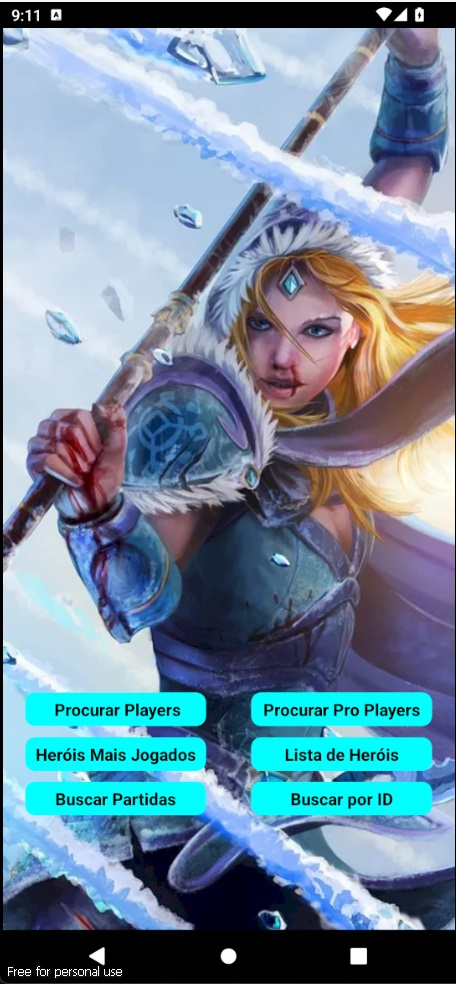
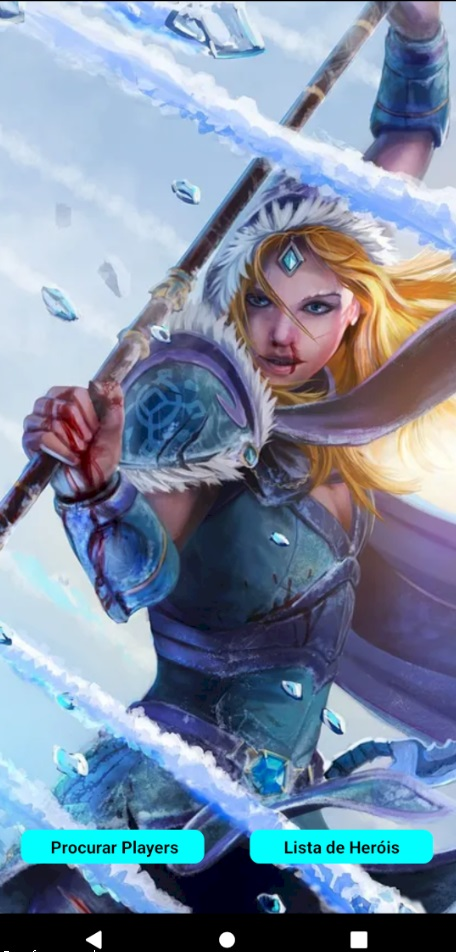
finalizando o app

diff --git a/src/screens/Home/index.tsx b/src/screens/Home/index.tsx
@@ -3,7 +3,6 @@ import { View, Text, Image, TouchableOpacity, } from 'react-native';
 
 import Logo from "../../images/dota2Icon.png"
 import { styles } from './styles';
-import { Border } from '../../components/Border';
 import { Heroes } from '../BuscarPlayers/props';
 import axios from 'axios';
 
@@ -26,8 +25,6 @@ export function Home({ navigation }: any) {
         navigation.navigate("listaDeHerois")
     }
 
-
-
     return (
         <View style={styles.container}>
             <Image
@@ -36,12 +33,6 @@ export function Home({ navigation }: any) {
                     require('../../images/wallpaper.webp')
                 }
             />
-            {/*  <View style={styles.logoContainer}>
-                <Image
-                    style={styles.imageLogo}
-                    source={Logo}
-                />
-            </View> */}
             <View
                 style={styles.buttonContainer}
             >
@@ -51,35 +42,31 @@ export function Home({ navigation }: any) {
                 >
                     <Text style={styles.textButton}> Procurar Players</Text>
                 </TouchableOpacity>
-                <TouchableOpacity
+                {/*  <TouchableOpacity
                     onPress={navToProPlayes}
                     style={styles.button}
                 >
                     <Text style={styles.textButton}>Procurar Pro Players</Text>
-                </TouchableOpacity>
-                <TouchableOpacity
+                </TouchableOpacity> */}
+                {/*  <TouchableOpacity
                     onPress={navToHeroisMaisJogados}
                     style={styles.button}
                 >
                     <Text style={styles.textButton}>Heróis Mais Jogados</Text>
-                </TouchableOpacity>
+                </TouchableOpacity> */}
                 <TouchableOpacity
                     onPress={navToListaDeHerois}
                     style={styles.button}
                 >
                     <Text style={styles.textButton}>Lista de Heróis</Text>
                 </TouchableOpacity>
-                <TouchableOpacity
+                {/*   <TouchableOpacity
                     onPressIn={navToPartidasPorId}
                     style={styles.button}
                 >
                     <Text style={styles.textButton}>Buscar Partidas</Text>
-                </TouchableOpacity>
-                <TouchableOpacity
-                    style={styles.button}
-                >
-                    <Text style={styles.textButton}>Buscar por ID</Text>
-                </TouchableOpacity>
+                </TouchableOpacity> */}
+
 
 
             </View>

diff --git a/src/components/Context/useDatasContex.tsx b/src/components/Context/useDatasContex.tsx
@@ -39,11 +39,9 @@ export const PlayerProvider: React.FC<PlayerProviderProps> = ({ children }) => {
                 if (storedPlayerData) {
                     setPlayerData(JSON.parse(storedPlayerData));
                 }
-
                 if (storedRecentMatches) {
                     setRecentMatches(JSON.parse(storedRecentMatches));
                 }
-
                 if (storedPlayerId) {
                     setPlayerId(storedPlayerId);
                 }
@@ -76,7 +74,7 @@ export const PlayerProvider: React.FC<PlayerProviderProps> = ({ children }) => {
         };
 
         saveData();
-    }, [playerData, recentMatches, playerId]);
+    }, [playerData, recentMatches, playerId, winrate]);
 
     const contextValue: PlayerContextData = {
         playerData,

diff --git a/src/screens/BuscarPlayers/index.tsx b/src/screens/BuscarPlayers/index.tsx
@@ -56,19 +56,15 @@ export function BuscarPlayers({ navigation }: any) {
             const playerDataResponse = await fetchGetPlayerData(idAtual);
             const playerData = playerDataResponse ?? null;
             setPlayerData(playerData);
-
             const recentMatchesDataResponse = await fetchGetRecentMatchesData(idAtual);
             const recentMatchesData = recentMatchesDataResponse ?? [];
             setRecentMatches(recentMatchesData);
             setWinrate(data)
 
-
         } catch (error) {
             console.error(`Erro ao buscar dados: `, error);
         }
     };
-    console.log(JSON.stringify(winrate, null, 2))
-
 
     const renderItem = ({ item, index }: { item: RecentMatches, index: number }) => {
 

diff --git a/src/screens/Home/styles.tsx b/src/screens/Home/styles.tsx
@@ -16,7 +16,7 @@ export const styles = StyleSheet.create({
         resizeMode: "contain"
     },
     buttonContainer: {
-        top: 250,
+        top: 350,
         flexDirection: "row",
         width: "100%",
         flexWrap: "wrap",
@@ -29,8 +29,6 @@ export const styles = StyleSheet.create({
         backgroundColor: 'rgb(0,255, 255)',
         marginVertical: 5,
         borderRadius: 9,
-
-
     },
     textButton: {
         color: "#000",

diff --git a/src/constants/player.ts b/src/constants/player.ts
@@ -1,8 +1,6 @@
 export const PLAYER_PROFILE_API_BASE_URL =
     'https://api.opendota.com/api/players/';
 
-
-
 export const HEROES_API_BASE_URL =
     'https://api.opendota.com/api/heroStats';
 

diff --git a/src/components/Modals/ModalDestacarPartidaStyles.tsx b/src/components/Modals/ModalDestacarPartidaStyles.tsx
@@ -15,7 +15,6 @@ export const styles = StyleSheet.create({
 
     },
     modal: {
-        //  backgroundColor: "#fff",
         width: "95%",
         borderRadius: 5,
         padding: 10,

diff --git a/src/screens/BuscarProPlayers/index.tsx b/src/screens/BuscarProPlayers/index.tsx
@@ -28,7 +28,6 @@ export function BuscarProPlayers() {
     );
   }
 
-
   console.log(JSON.stringify(data, null, 2))
   return (
     <View style={styles.container}>
